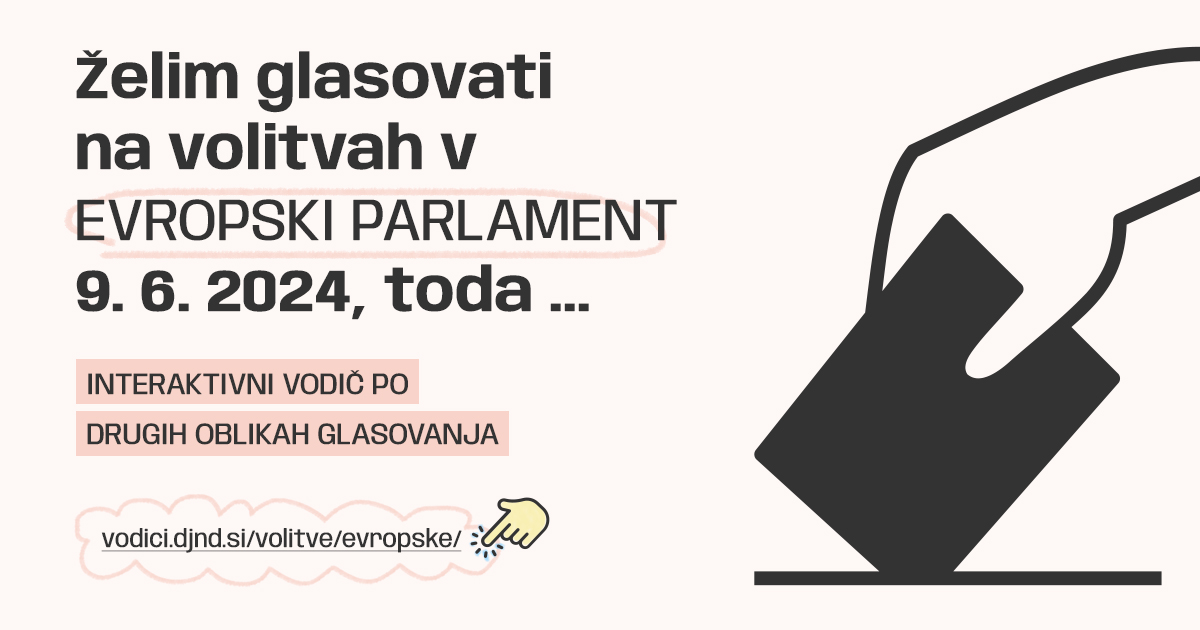
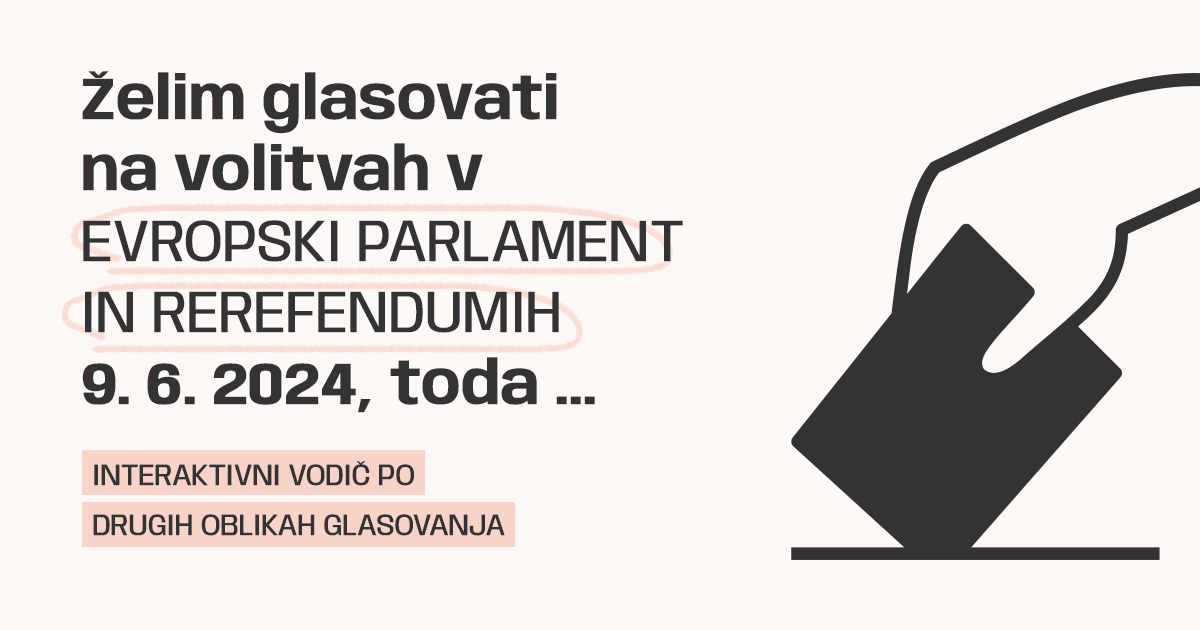
update og texts and og image

diff --git a/public/index.html b/public/index.html
@@ -8,9 +8,9 @@
     <link rel="icon" type="image/png" href="img/favicon-32x32.png">
     <link rel="alternate icon" href="img/favicon.ico">
 
-    <title>Želim glasovati na volitvah v Evropski parlament in referendumih 9. 6. 2024, toda ...</title>
-    <meta property="og:title" content="Želim glasovati na volitvah v Evropski parlament in referendumih 9. 6. 2024, toda ...">
-    <meta name="twitter:title" content="Želim glasovati na volitvah v Evropski parlament in referendumih 9. 6. 2024, toda, toda ...">
+    <title>Želim glasovati na volitvah v Evropski parlament in referendumih, toda ...</title>
+    <meta property="og:title" content="Želim glasovati na volitvah v Evropski parlament in referendumih, toda ...">
+    <meta name="twitter:title" content="Želim glasovati na volitvah v Evropski parlament in referendumih, toda ...">
 
     <meta name="description" content="Smernice za vse, ki na volitvah v Evropski parlament in referendumih 9. 6. 2024 ne morejo glasovati na običajen način.">
     <meta property="og:description" content="Smernice za vse, ki na volitvah v Evropski parlament in referendumih 9. 6. 2024 ne morejo glasovati na običajen način.">
